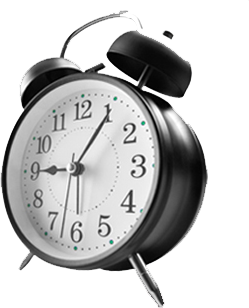
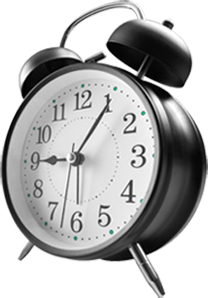
update newsletter images, background image, and add padding to main content area and aside

diff --git a/templates/tmpl_restonic/css/template.css b/templates/tmpl_restonic/css/template.css
@@ -7190,11 +7190,13 @@ section .main-body-row aside {
   margin-left: 20px;
   width: 220px;
   margin-left: 0px;
+  padding-bottom: 50px;
 }
 section .main-body-row .main-body-sidebar {
   float: left;
   margin-left: 20px;
   width: 700px;
+  padding-bottom: 50px;
 }
 .main-body > .not-found {
   float: left;
@@ -8941,7 +8943,7 @@ header .navbar .dropdown.yamm-fullwidth .nav-child {
   padding: 4px;
 }
 #newsletter-signup .signup-background {
-  background: #e1e2e4;
+  background: url('../images/newsletter-bg.png') no-repeat #e1e2e4 bottom left;
   -webkit-border-radius: 8px;
   -moz-border-radius: 8px;
   border-radius: 8px;
@@ -8974,8 +8976,8 @@ header .navbar .dropdown.yamm-fullwidth .nav-child {
 }
 #newsletter-signup .signup-clock {
   position: absolute;
-  right: 0px;
-  top: 0px;
+  right: 15px;
+  top: 15px;
 }
 @media (max-width: 768px) {
   #newsletter-signup .signup-clock {

diff --git a/templates/tmpl_restonic/less/newsletter.less b/templates/tmpl_restonic/less/newsletter.less
@@ -3,12 +3,13 @@
   .border-radius(8px);
   padding: 4px;
   .signup-background {
-    background: #e1e2e4;
+    background: url('../images/newsletter-bg.png') no-repeat #e1e2e4 bottom left;
     .border-radius(8px);
     padding: 4px;
     margin: 5px;
     position: relative;
     min-height: 290px;
+
   }
   .signup-text {
     padding-top: 60px;
@@ -38,8 +39,8 @@
 
   .signup-clock {
     position: absolute;
-    right: 0px;
-    top: 0px;
+    right: 15px;
+    top: 15px;
   }
 
   @media (max-width: 768px) {

diff --git a/templates/tmpl_restonic/less/theme.less b/templates/tmpl_restonic/less/theme.less
@@ -101,9 +101,11 @@ section {
 	aside {
 	  .makeColumn(3);
       margin-left: 0px;
+      padding-bottom: 50px;
 	}
 	.main-body-sidebar {
 	  .makeColumn(9);
+      padding-bottom: 50px;
 	}
   }
 }
